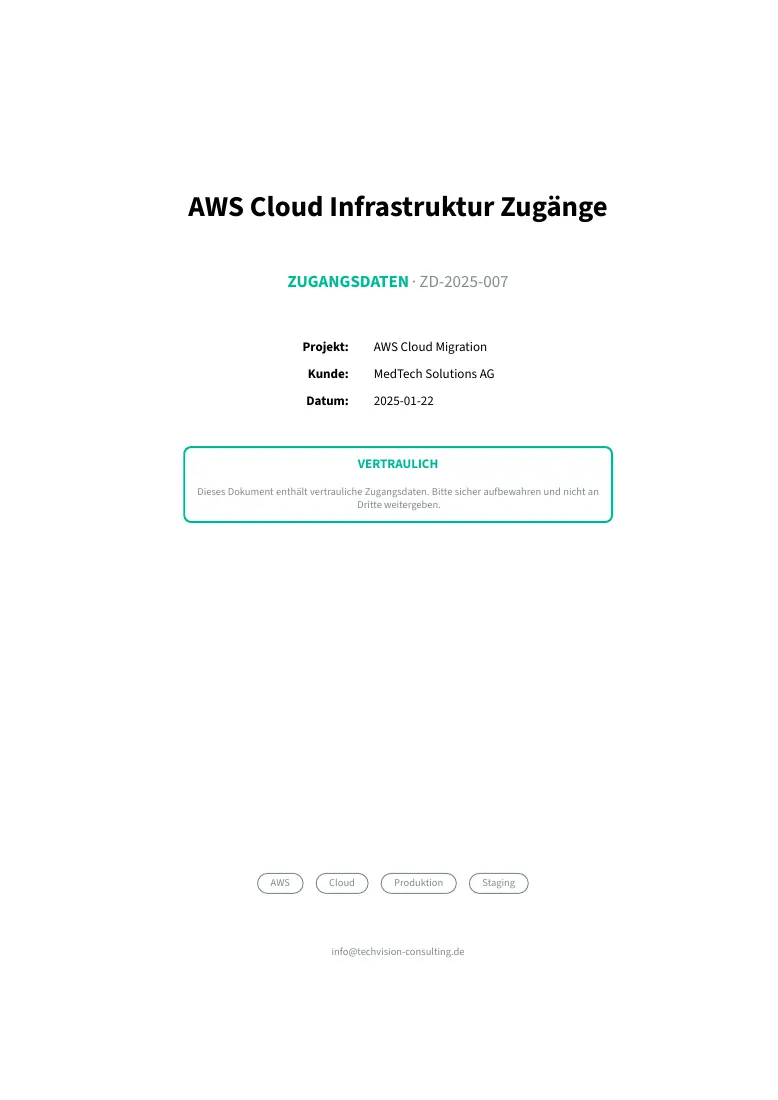
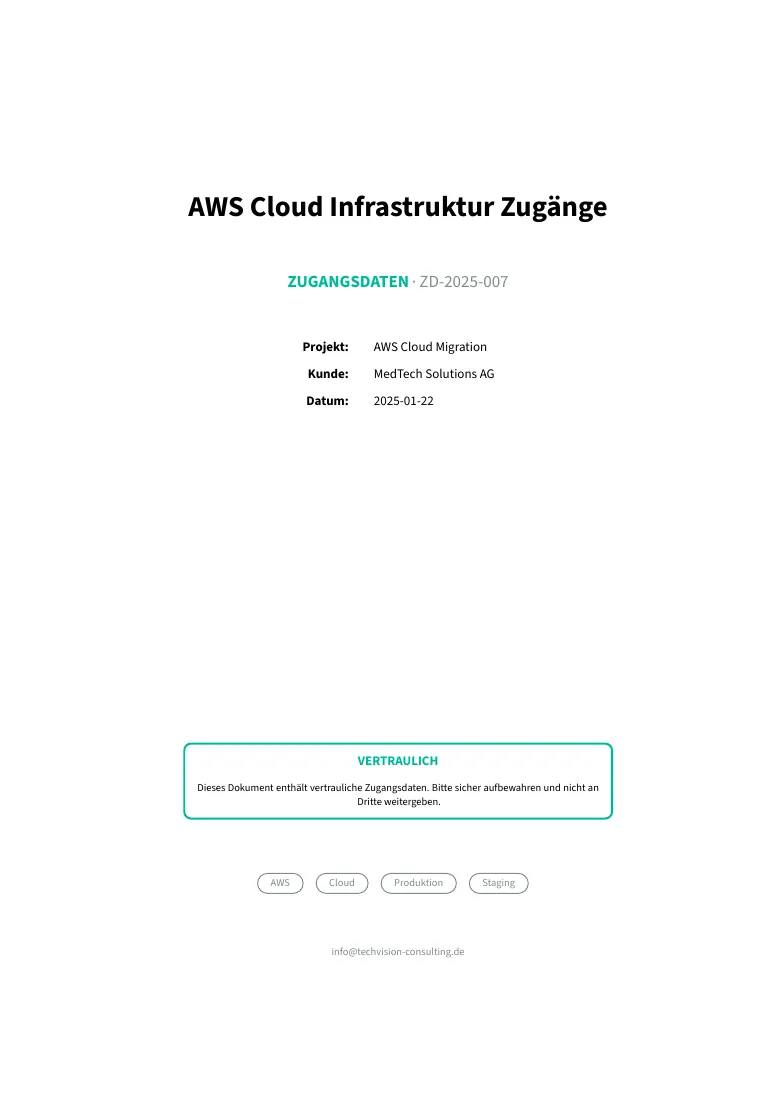
chartlet 0.19 and typstgen 0.5: radial mind map, named quadrants
- Mind map example: chartlet's radial tree ("layout": "radial") instead of a layered tree
- Quadrant example: scatter with "quadrants" (dividing lines and the four area names) instead
  of two threshold lines
- CI installs typstgen 0.5.0 and chartlet 0.19.0; the other diagram SVGs render byte for byte
  the same
- Showcase rebuilt (quadrant, and the credentials title page fixed in 692e6e3)

diff --git a/site/src/showcase.ts b/site/src/showcase.ts
@@ -184,8 +184,8 @@ const entries: Entry[] = [
     title: 'Diagram: quadrant',
     file: 'examples/diagrams/quadrant.json',
     tags: ['diagram', 'quadrant', 'chartlet'],
-    description: 'Impact versus effort as a scatter plot with lines at the middle of both axes.',
-    alt: 'Scatter plot “Feature-Priorisierung” with effort on the x axis and impact on the y axis, both from 0 to 10, dashed lines at 5 dividing four quadrants, and four labelled features: Analytics Dashboard, SSO Integration, Dark Mode, Legacy Import.',
+    description: 'Impact versus effort as a scatter plot with named quadrants: chartlet draws the dividing lines and the area names.',
+    alt: 'Scatter plot “Feature-Priorisierung” with effort on the x axis and impact on the y axis, both from 0 to 10, divided at 5 into four named quadrants: Schnelle Erfolge, Großprojekte, Lückenfüller and Vermeiden, with four labelled features.',
     size: { width: 1100, height: 668 },
   },
   {

diff --git a/docs/guides/diagrams.md b/docs/guides/diagrams.md
@@ -82,10 +82,10 @@ has one spec per common business diagram, and `build.sh` there renders and compi
 | `flow.json` | `flow` — process with a decision and a loop back |
 | `swimlane.json` | `flow` with `lanes` |
 | `orgchart.json` | `tree` |
-| `mindmap.json` | `tree` (chartlet has no radial layout) |
+| `mindmap.json` | `tree` with `"layout": "radial"` |
 | `timeline.json` | `timeline` — phases and milestones |
 | `roadmap.json` | `timeline` with groups |
-| `quadrant.json` | `scatter` with threshold lines through the middle of both axes |
+| `quadrant.json` | `scatter` with `quadrants`: dividing lines and the four area names |
 
 The documentation of the IT consultancy example
 ([`documentation.typ`](https://github.com/casoon/typst-business-templates/blob/main/examples/it-consultant/documents/documentation/2025/documentation.typ))

diff --git a/examples/diagrams/README.md b/examples/diagrams/README.md
@@ -10,10 +10,10 @@ own page or inside a concept, documentation or proposal.
 | `flow.json` | `flow` – process with a decision and a loop back |
 | `swimlane.json` | `flow` with `lanes` |
 | `orgchart.json` | `tree` |
-| `mindmap.json` | `tree` (chartlet has no radial layout) |
+| `mindmap.json` | `tree` with `"layout": "radial"` – the root in the middle, one ring per level |
 | `timeline.json` | `timeline` – phases and milestones |
 | `roadmap.json` | `timeline` with groups |
-| `quadrant.json` | `scatter` with threshold lines at the middle of both axes |
+| `quadrant.json` | `scatter` with `quadrants` – dividing lines and the four area names |
 
 Build all of them (needs `cargo install chartlet` and typstgen):
 

diff --git a/CHANGELOG.md b/CHANGELOG.md
@@ -12,7 +12,8 @@ All notable changes to this project will be documented in this file.
   numbering and `--encrypt` are not carried over.
 - **Diagrams** come from [chartlet](https://github.com/casoon/chartlet) instead of docgen's layout
   code: the examples in `examples/diagrams/` are chartlet specs, rendered as SVG. The `diagram`
-  template is removed; mind map and quadrant become a tree and a scatter plot.
+  template is removed; the mind map uses chartlet's radial tree and the quadrant a scatter plot with
+  named quadrants (chartlet 0.19).
 - **`locale/` moved into the package** (`templates/locale/`).
 
 ### Added
